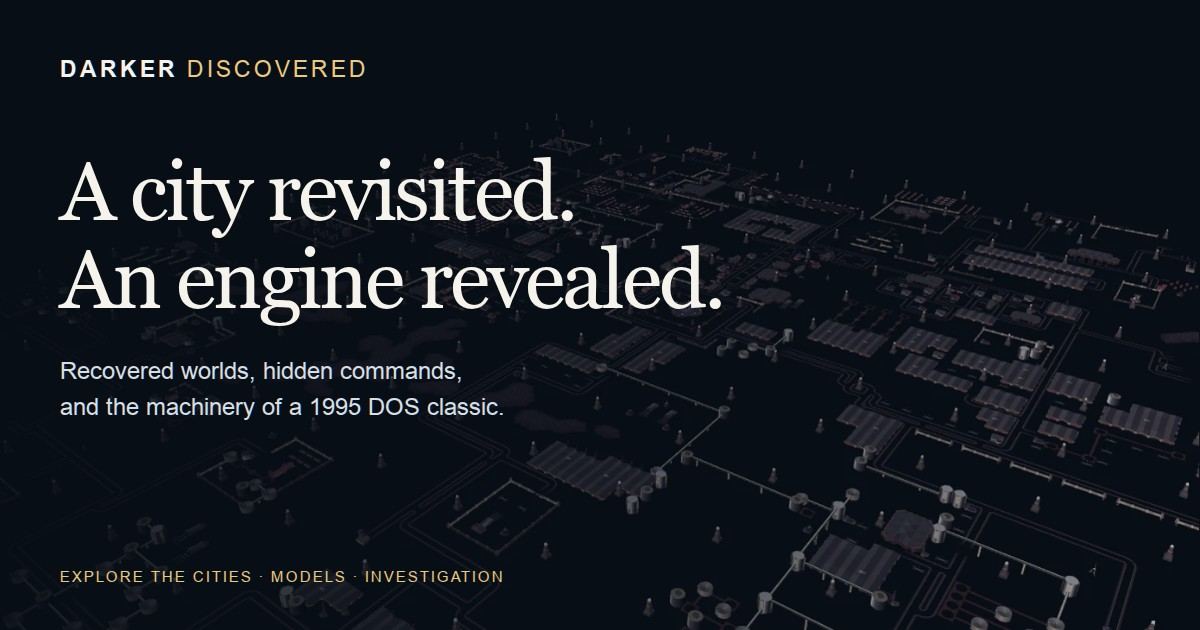
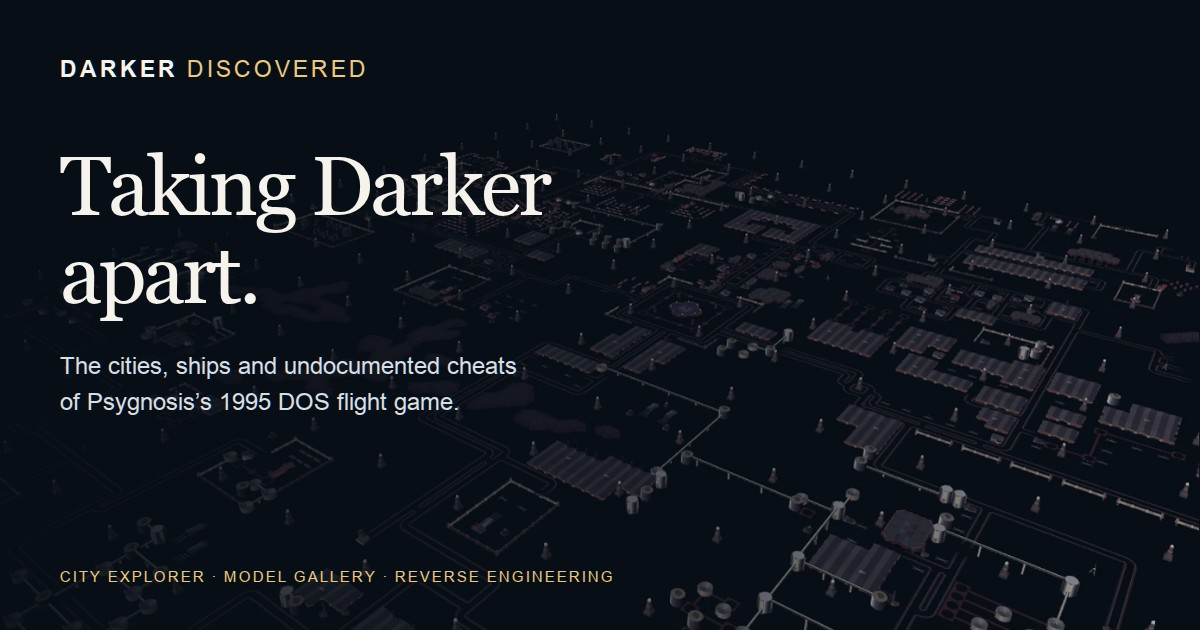
de-slopulise

Changed region(s): [[0.0308, 0.2413, 0.5858, 0.5127], [0.0308, 0.573, 0.4317, 0.6635], [0.0308, 0.9048, 0.5242, 0.9349]]

diff --git a/src/explore.js b/src/explore.js
@@ -36,7 +36,7 @@ async function main(){
   window.darkerViewer=viewer; // Useful for local screenshots and browser verification.
 }
 async function loadCity(){
-  const request=++token;status('Assembling the city…');$('viewport').setAttribute('aria-busy','true');
+  const request=++token;status('Loading map…');$('viewport').setAttribute('aria-busy','true');
   try{
     const map=catalog.maps.find(m=>m.id===+$('map').value),meta=catalog.banks.find(b=>b.id===map.bank);
     const [loaded,cells]=await Promise.all([data(meta.file),data(map.file)]);if(request!==token)return;
@@ -51,11 +51,11 @@ async function loadCity(){
 function selectType(){
   const type=+$('type').value;viewer.select(type,$('isolate').checked);
   $('focus').disabled=!type;
-  $('selection').textContent=type?`${bank.models[`city-${type}`].name} — ${viewer.cells.filter(n=>n===type).length} placements`:'Click a building to find its relatives across the city.';
+  $('selection').textContent=type?`${bank.models[`city-${type}`].name} — ${viewer.cells.filter(n=>n===type).length} placements`:'Click a building to highlight others of the same type.';
   $('model-link').hidden=!type;if(type)$('model-link').href=`../models/?bank=${catalog.maps.find(m=>m.id===+$('map').value).bank}&model=city-${type}`;
 }
 async function loadGallery(initial){
-  const request=++token;status('Opening the collection…');
+  const request=++token;status('Loading models…');
   try{
     const meta=catalog.banks.find(b=>b.id===+$('bank').value);const loaded=await data(meta.file);if(request!==token)return;bank=loaded;
     $('collection-name').textContent=meta.region;$('era-label').textContent=meta.era==='retail'?'1995 · Retail':`${meta.era} · Demo`;

diff --git a/content/investigation.md b/content/investigation.md
@@ -1,72 +1,70 @@
-## A familiar skyline, an unfamiliar machine
+## Back to Darker's city
 
-Darker, released by Psygnosis in 1995, makes its city the centre of the experience. You fly between buildings, seek out light to replenish your energy, and learn a landscape that is much larger than the view through your cockpit. Its stark silhouettes and narrow colour ramps give it a remarkably distinctive atmosphere.
+In Darker, released by Psygnosis in 1995, you learn the city a few streets at a time. Buildings disappear into the distance, light towers keep your craft supplied with energy, and the view from the cockpit gives you only a small part of the picture. Seeing the whole place laid out at once was one of the attractions of taking the game apart.
 
-This investigation began with an ordinary DOS installation and a practical question: **what is actually inside it?** Could its cities, craft and systems be recovered well enough to understand how the game worked—and eventually reproduce that behaviour?
-
-The answer involved more than extracting a few meshes. The executable hid its startup behind interleaved instruction streams. Models turned out to be little drawing programs. Familiar surfaces that looked textured were carrying vertex shades. Two demo releases then supplied an unexpected record of the engine's development.
+We started with a working DOS installation. The aim was to recover its assets and understand enough of the code to build a faithful new implementation. We soon found ourselves decoding a model instruction language, checking flight arithmetic and trying cheat phrases that apparently nobody had published in thirty years. Two demos supplied earlier versions of the same engine, along with some rather less finished cities.
 
 <figure><img src="../images/city-hero.webp" alt="The reconstructed Delphi city viewed from above, with its dense skyline and regularly spaced light towers." width="1440" height="900"><figcaption>Delphi assembled from the recovered map and model definitions. This is our modern inspection renderer, not a screenshot of the DOS game. <a href="../cities/?map=68">Explore the city →</a></figcaption></figure>
 
-## First, persuade the executable to make sense
+## Getting past the loader
 
-The executable had a valid DOS header, but reading its startup as a conventional sequence of instructions produced nonsense. The copy was known to run. The problem was our interpretation.
+The first disassembly was mostly nonsense. The executable had a valid DOS header and ran in DOSBox, so we knew there had to be a sensible path through those bytes. Reading them in order was getting us nowhere.
 
-Its loader uses the processor's **trap flag**, normally associated with single-stepping, as part of its control flow. After an instruction executes, a tiny interrupt handler exchanges the next instruction address with another saved address. Execution weaves between two streams. A branch can enter bytes that a linear disassembler has already interpreted as part of a different instruction.
+The loader uses the processor's **trap flag**, normally used for single-stepping. After an instruction executes, a tiny interrupt handler exchanges the next instruction address with another saved address. Execution alternates between two streams. A branch can land in bytes that the disassembler has already treated as part of a different instruction.
 
-That distinction mattered in practice. An initial emulator experiment stopped at the interrupt instead of reproducing the installed handler. It looked like failure in the executable, but it was a missing part of the experimental environment. Following an uninterrupted DOSBox trace exposed the actual path to the depacker.
+Our first emulator experiment stopped at that interrupt. We had failed to reproduce the handler that the program installed for itself. An uninterrupted DOSBox trace let us follow the loader through to its decompression routine.
 
-Once understood, the loader could be reduced to deterministic transformations and an LZ-style decoder. A standalone extractor recovered an initialized **65,536-byte image**, matching an independent DOSBox memory capture byte for byte. That figure describes the recovered executable image, **not the size of the whole game**: city geometry, maps, audiovisual resources and other data live elsewhere.
+We then wrote a standalone extractor that applies the loader's transformations and an LZ-style decoder. It recovered an initialised **65,536-byte executable image**, identical to an independent DOSBox memory capture. The rest of the game, including its cities, models and audiovisual resources, is stored in separate data files.
 
-<figure><img src="../images/unpacking.svg" alt="Packed DOS executable passes through the interleaved loader and LZ-style decoding to a 64 KiB executable image; an independent DOSBox capture verifies the result." width="960" height="300"><figcaption>Two independent paths to the same bytes. Matching a runtime capture gave us a firmer foundation than plausible-looking disassembly alone.</figcaption></figure>
+<figure><img src="../images/unpacking.svg" alt="Packed DOS executable passes through the interleaved loader and LZ-style decoding to a 64 KiB executable image; an independent DOSBox capture verifies the result." width="960" height="300"><figcaption>The extractor's output matches the executable image captured from DOSBox, byte for byte.</figcaption></figure>
 
-We have not identified the packer or established whether the unusual loader was written specifically for Darker. An unfamiliar encoding is not enough to attach a tool name or a motive to it.
+The packer's identity remains unknown. We have no evidence yet that the loader was written specifically for Darker.
 
 ## The models are programs
 
-A conventional model file might give you a list of vertices followed by faces. Darker's geometry streams instead tell an interpreter **how to produce the vertices and draw the model**.
+A model is a stream of commands for a small interpreter. Those commands produce vertices, draw faces and decide which parts of an object are visible.
 
-One command supplies coordinates. Others retain a coordinate, replace it, zero it or negate it. A symmetric component can reuse a previous point with a sign change rather than storing three fresh numbers. Relative calls let definitions share drawing subroutines. There are also visibility and distance tests, coloured lines, polygons and special components.
+One command supplies coordinates. Others retain a coordinate, replace it, zero it or negate it. To make a symmetrical part, a definition can reuse an earlier point with a sign change and save storing three more numbers. Relative calls allow models to share drawing subroutines. Other commands test visibility or distance, or draw coloured lines and special effects.
 
-This explains why a clean extraction requires executing or interpreting the format rather than searching for blocks of plausible coordinates. It also explains why “number of model definitions” is not the same as “number of different meshes”: several records can refer to the same geometry, or build related objects from shared pieces.
+To extract a model, we had to implement that interpreter. Searching the files for plausible sets of coordinates would have missed most of the instructions needed to assemble them. It also became clear why the object lists contained so many similar craft: several definitions can refer to the same geometry, or build related objects from shared pieces.
 
 <figure><img src="../images/model-craft.webp" alt="Recovered Caero fighter geometry, showing its angular form and palette-based shading." width="1200" height="800"><figcaption>The Caero fighter in the model gallery. Stored colours and shades do much of the visual work. <a href="../models/?bank=30&amp;model=special-25">Rotate the model →</a></figcaption></figure>
 
-The city adds another layer. Each map is a **128 × 128 grid** of type references. A type leads to a model definition, with placement information and links to other states. Runtime cell state is kept separately. The original engine interprets that information while drawing; our public explorer assembles a convenient modern view of the recovered content.
+Each city map is a **128 × 128 grid** of object types. A type selects a model definition, with placement information and links to other states. Changes made during play are kept separately from this base map. The explorer on this site uses those definitions to assemble the city in a modern renderer.
 
-<figure><img src="../images/engine.svg" alt="Map cells select model definitions; model commands generate geometry. Runtime cell state selects alternate or damaged forms. The palette and shades feed the software rasterizer, which produces the indexed framebuffer." width="960" height="480"><figcaption>A simplified path from map data to an image. This diagram describes recovered relationships, rather than claiming to reproduce the original source-code modules.</figcaption></figure>
+<figure><img src="../images/engine.svg" alt="Map cells select model definitions; model commands generate geometry. Runtime cell state selects alternate or damaged forms. The palette and shades feed the software rasteriser, which produces the indexed framebuffer." width="960" height="480"><figcaption>How the map, model commands and palette contribute to a frame. The division into boxes is ours; the original source-code structure is unknown.</figcaption></figure>
 
-Getting placement right was its own investigation. Rotation direction and a reflected horizontal axis each produced cities that initially looked plausible. Roads and walls exposed the rotation error; comparison with the correctly oriented 2D map exposed the reflection. A recognisable skyline was a useful milestone, but not sufficient evidence of correct coordinates.
+Our first assembled city had plenty of convincing buildings and some deeply unconvincing roads. We had applied rotations in the wrong direction. Correcting that exposed a second mistake: the entire 3D map was reflected east to west. Comparing it with the correctly oriented 2D map let us put that right too.
 
 ## Colour without texture maps
 
-Some of the craft's surfaces initially suggested simple texture mapping. Tracing their drawing commands revealed a different explanation: the extra values were **vertex indices paired with shades**.
+Some surfaces on the craft looked as though they carried simple textures. The drawing commands revealed that the extra values were **vertex indices paired with shades**.
 
-The renderer interpolates shades within a palette range. With a small number of discrete colours, that interpolation can look surprisingly texture-like. The F9 rendering toggle changes the shaded path to a flat-colour fallback; the decoded commands did not establish bitmap texture mapping.
+The renderer interpolates between those shades using a limited range of palette colours. The resulting bands can look like surface detail. Pressing F9 in the game switches from this shading to a flat-colour fallback. We found no bitmap texture mapping in these commands.
 
-The face-colour byte also carries structure. Its upper bits select one of eight 32-entry palette ranges, while the lower bits identify a shade or a special dynamic value. Distance-dependent lookup tables then alter the result. The palette is part of the rendering machinery, not merely a final choice of colours.
+Each face-colour byte selects both a palette range and a shade. Its upper bits choose one of eight 32-entry ranges; the lower bits give the shade or a special dynamic value. Distance lookup tables modify the result before drawing. Changing a palette therefore affects the shading and distance effects as well as the colours of individual objects.
 
-Try the **Flat colours** switch in the gallery to compare these two presentations. The viewer preserves the recovered palettes and vertex shades, but its projection, clipping and GPU rasterization are modern. It does not reproduce every DOS rounding decision, visibility branch or distance fade.
+The gallery's **Flat colours** switch shows the difference. Our viewer uses the recovered palettes and vertex shades with modern projection, clipping and GPU rasterisation. It does not reproduce DOS rounding, visibility branches or distance fading.
 
 ## A city with more than one state
 
-An apparently closed hangar and an open interior can be linked definitions of the same structure. Landing lights have dim and lit forms. Destroyed buildings can change models. Some of the definitions with no direct map placement are essential alternate states rather than abandoned objects.
+Closed hangars have linked definitions containing their open interiors. Landing lights have dim and lit forms, and damaged buildings can switch to different models. Several apparently unused definitions turned out to be the other state of an object already on the map.
 
-The light tower is especially revealing. Its solid base and top are geometry, while the ball of light above it is a separate camera-facing disc. Treating everything as triangles would lose part of the object. The explorer normally shows the towers illuminated, matching the familiar experience of flying through the game.
+A light tower combines ordinary geometry for its base and top with a camera-facing disc for the ball of light. The explorer starts with the towers illuminated, as they usually are in the game.
 
-Fountains provided another surprise. Their motion comes from **procedural vertex displacement**, driven by stored parameters and a sine table. A player-recorded cycle of roughly four seconds helped check the interpretation; the recovered clock relationship gives a cycle of about 4.1 seconds. Gates use a separate extension parameter. These are small authored mechanisms, not imported skeletal animation.
+The fountains move by **displacing vertices**, using stored parameters and a sine table. We checked the decoded motion against a recording made in the game: a cycle took a little over four seconds, agreeing with the roughly 4.1 seconds implied by the recovered clock. Gates have their own extension parameter, which the model gallery exposes as a slider.
 
-<figure><img src="../images/model-fountain.webp" alt="One of the recovered fountain ornaments displayed in the model viewer." width="1200" height="800"><figcaption>The gallery exposes recovered animation and linked states where available. Fountain pieces and their effects are separate definitions; one component is not the whole assembled fountain.</figcaption></figure>
+<figure><img src="../images/model-fountain.webp" alt="One of the recovered fountain ornaments displayed in the model viewer." width="1200" height="800"><figcaption>A fountain ornament. The pool, moving pieces and effects have separate definitions; the gallery lets you inspect each part.</figcaption></figure>
 
 ## Bringing undocumented cheats to light
 
-**To our knowledge, this investigation is the first public documentation of Darker’s hidden cheat commands.** We are not aware of any earlier published account, in contemporary games magazines or online. The commands were recovered by tracing the executable, then tested in the running game—not copied from an existing cheat list. An earlier source could still surface, but these appear to have remained undocumented for more than thirty years.
+**To our knowledge, this is the first public documentation of Darker's hidden cheat commands.** We are not aware of any earlier account in contemporary games magazines or online. We recovered the commands from the executable and tested them in the game. An older source may yet turn up, but they appear to have gone unpublished for more than thirty years.
 
-Strings in the executable included “The Jason Brooke special” and “Lyndon's little snooze”. Their consumers led to an undisclosed input mode, sharing an editor with ordinary name entry but taking a different dispatch path.
+The first clues were strings such as “The Jason Brooke special” and “Lyndon's little snooze”. Tracing the code that referred to them led to a hidden input mode. It borrows the game's name-entry editor, then sends the text to a separate command handler.
 
 On the retail game-selection screen, type **`*3`**: Shift+8, release Shift, then 3 on the number row. The prompt changes to **STAR THREE — What do you want?** Exact phrases, including punctuation, select handlers that patch the running program.
 
-<figure><img src="../images/star-three.webp" alt="The original DOS game displaying STAR THREE and the prompt What do you want?" width="960" height="720"><figcaption>The hidden prompt captured in the original executable under DOSBox. Unlike the 3D illustrations, this is evidence from the running game.</figcaption></figure>
+<figure><img src="../images/star-three.webp" alt="The original DOS game displaying STAR THREE and the prompt What do you want?" width="960" height="720"><figcaption>The hidden prompt in the original game, captured under DOSBox.</figcaption></figure>
 
 | Retail phrase | What the investigation established |
 | --- | --- |
@@ -75,48 +73,46 @@ On the retail game-selection screen, type **`*3`**: Shift+8, release Shift, then
 | Who gives true life? | Alters damage handling; it is not blanket protection from scenery collisions. |
 | Level X | Enables X to advance to the next-level sequence. |
 
-Even the string boundaries contained a trap. An apparent “Level XI” ended with a byte that was really part of a handler address. The original matcher accepted **Level X** and rejected the extra letter. That is the sort of detail a strings dump cannot settle by itself.
+“Level XI” briefly looked like another clue. The final I was actually a byte from a handler address, immediately after the text. The game's matcher accepted **Level X** and rejected the extra letter. Even the cheat list needed debugging.
 
-The demos reuse some phrases but do not consistently give them the retail effects. A familiar label is not evidence of identical behaviour across releases.
+Some of these phrases also exist in the demos, where their effects differ. The table above applies to the retail game.
 
-## A compact engine with very specific arithmetic
+## Assembly and arithmetic
 
-The inspected core strongly suggests substantial handwritten 16-bit x86 assembly. State is sometimes stored in immediate operands inside instructions. Helpers share code tails or enter intermediate labels. Registers and flags carry carefully tailored interfaces. One small transition helper takes its caller's return address, installs it as an object's next update callback, and continues there.
+Much of the core looks like handwritten 16-bit x86 assembly. It stores some state directly in instruction operands, shares the ends of routines, and enters functions halfway through. Registers and processor flags pass information in ways tailored to particular callers. We cannot identify the assembler, or say that every component was written this way; the source and authoring tools remain missing.
 
-That is strong evidence about the style of construction, but it does **not** identify a particular assembler or prove that every component was written in assembly. The original source organization and authoring tools have not been recovered.
+One particularly economical helper takes its caller's return address and installs it as an object's next update function. It then continues execution there. The following code has become the object's new behaviour, without the caller having to supply its address explicitly.
 
-Object callbacks give the engine recognisable structure: craft can move between startup, normal flight, landing and other behaviours by changing their update function. Mission commands have their own dispatch machinery. Rendering has a geometry interpreter. Audio has separately identifiable Sound Images Generation 2 drivers. A compact executable can still contain several distinct systems.
+Changing update functions lets craft move between startup, flight and landing behaviours. Elsewhere, mission commands go through their own dispatcher, model commands through the geometry interpreter, and audio through identifiable Sound Images Generation 2 drivers. These give us useful boundaries to follow when reading the code.
 
-Flight itself depends on fixed-point arithmetic, fractional position accumulation, wrapping angles and stored trigonometric tables. Replacing these with convenient floating-point formulas could change behaviour even if the new code looked mathematically equivalent. The useful question is not only “what formula is this?” but “what widths, rounding, ordering and side effects does this machine actually use?”
+Flight calculations use fixed-point arithmetic, accumulated fractional positions, wrapping angles and stored trigonometric tables. A floating-point translation could look equivalent on paper and still fly differently. Operand widths, rounding and the order of operations all matter.
 
-We therefore used controlled execution of original instruction sequences to test interpretations. Those experiments help isolate a charging rule or a movement step, while keeping their limits explicit: a helper running in a synthetic harness is not a complete playthrough.
+To check our interpretations, we ran original instruction sequences with controlled inputs and compared the results. That let us examine individual movement steps and charging rules without steering a ship by hand for every experiment. Full playtesting is still needed to check how those pieces behave together.
 
-## The demos are a development record
+## Earlier cities, earlier code
 
-Two demo packages expanded the investigation beyond the released game. We call them the **1993 demo** and **1995 demo** after the supplied packages. The early README carries a May 1993 date; that is a useful clue, not independently established dating for every binary in the package.
+We eventually obtained two demo packages, labelled here as the **1993 demo** and **1995 demo**. The early README is dated May 1993, though that does not date every executable in its package with certainty.
 
-The early surface maps show a substantially different city. Its second surface shares the layout with additions and a different palette, and has light towers where the retail Halon city does not. There are different underground layouts, a satellite-dish model with no identified use in the audited content, and radio messages that make the unfinished character of the build unmistakable.
+The early city has a substantially different layout. Its second surface uses much of the same layout with additions and another palette, including light towers in the city that resembles the later Halon. Retail Halon has none. Underground routes also differ, and the model bank contains a satellite dish for which we have found no use in the content examined. The first save’s radio traffic includes “Your weapons aren't very powerful are they!”, followed by “Never mind:- They haven't got any weapons at all!” These messages appear during play.
 
-Three early executables—X, X1 and X2—initially promised three gameplay revisions. The result was subtler. After accounting for relocation and padding, the complete decoded-image comparison left no unexplained bytes: the substantive differences were startup probe calls. Bypassing the troublesome probe in temporary copies let X and X1 run, and playtesting found no obvious visual difference.
+The early package came with three executables: X, X1 and X2. Only X2 initially ran for us. This seemed a promising place to look for lost gameplay revisions, but a complete comparison accounted for the differences through relocation, padding and startup probe calls. Bypassing a troublesome probe in temporary copies got X and X1 running. Playtesting then found no obvious visual difference. Three executables had mostly bought us three ways to start the same game, two of which got stuck.
 
-Nightmare is a visible special menu choice, not a newly discovered hidden mission. Its later script stages radio warnings and a blackout; vehicle definitions carry their own route programs, including scheduled destruction. Distinguishing those route bytes from ordinary mission commands was necessary to read the sequence correctly.
+The menu's **Nightmare** choice deserved a closer look too. In the 1995 demo, its script arranges radio warnings and a staged blackout. Ground vehicles follow their own route programs, including scheduled destruction. We initially confused some route bytes with mission commands; separating those interpreters made the sequence readable.
 
-A smaller discovery was audible. Several demo paths toggle the PC-speaker port directly to make a short rising chirp. The later Skimma hit cue follows building or object hits without testing whether damage was dealt. The same family of loops appears elsewhere, including a repeating diagnostic-looking path. Whether a particular use was intended player feedback or a development leftover remains uncertain.
+There is also a short rising chirp produced by direct writes to the PC-speaker port. One use in the 1995 demo is a Skimma hit cue, triggered by a building or object hit without checking whether it caused damage. The speaker can sound even with a sound card in use. Related loops occur elsewhere, including a repeating path that looks diagnostic. We cannot yet tell which were intended effects and which were leftovers from development.
 
-You can compare the packages in the city explorer. **Surface A** and **Surface B** are deliberately neutral labels: the demo worlds should not be assumed to have every identity or rule of their retail counterparts.
+Maps from all three releases are available in the city explorer. We have kept the demo map names **Surface A** and **Surface B**, since their resemblance to the retail cities does not establish that they had the same names or roles.
 
-## What this reconstruction is—and what comes next
+## Towards a playable reconstruction
 
-This site is a curated view of the investigation. It includes the most visually useful reconstructions and a readable account of how we reached them. It is not a playable port, and the city and model viewers are not substitutes for the original renderer.
+The viewers let us inspect the recovered cities and models. They leave the original gameplay and much of the software renderer to a separate reconstruction project.
 
-The full analysis retains the material omitted here: source offsets, native execution probes, raw extraction metadata, mission and audio studies, uncertainties and reproducible tools. The separate release will be the place to examine a specific instruction path or challenge an interpretation.
+That work has two planned stages. First, a readable implementation preserving Darker's arithmetic, drawing logic and interpretation of the original assets. Once that behaviour is understood and reproduced, a later engine can use converted assets and support the browser, flexible window sizes and adjustable graphics.
 
-The longer-term plan has two stages. First comes a faithful, readable implementation that preserves the original arithmetic, drawing logic and asset interpretation. A later re-engine can choose modern resources, browser delivery and adjustable presentation with a much clearer understanding of what it is changing.
-
-> The most useful discoveries were often corrections: a texture that was a shade, a string that included an address, a script that was a route, or an unused model that was another object's damaged state.
+The full analysis will be released separately, with code references, extraction tools, execution experiments and the detailed studies of missions and audio. It contains the evidence behind this account, including the parts we still cannot explain.
 
 ### Evidence and credits
 
-The investigation combines static decoding, original-code execution in isolated harnesses, DOSBox captures and hands-on playtesting. Direct observations, inferred explanations and modern presentation choices are kept distinct. Some original behaviours remain incompletely traced.
+We used static decoding, controlled execution of original code, DOSBox captures and hands-on playtesting. The 3D illustrations come from our inspection renderer; the cheat-prompt capture comes from the DOS game. The diagrams are explanatory drawings made for this site.
 
-Darker and its original artwork are the work of their original creators and were published by Psygnosis. This is an independent reverse-engineering and preservation project. The web presentation and diagrams are newly authored; the displayed worlds and craft derive from the game's data. Credits are not a claim of affiliation or ownership of those original assets.
+Darker was published by Psygnosis. Its original artwork and game content belong to their respective creators and rights holders. This independent reverse-engineering project provides the viewers, analysis and web presentation.
